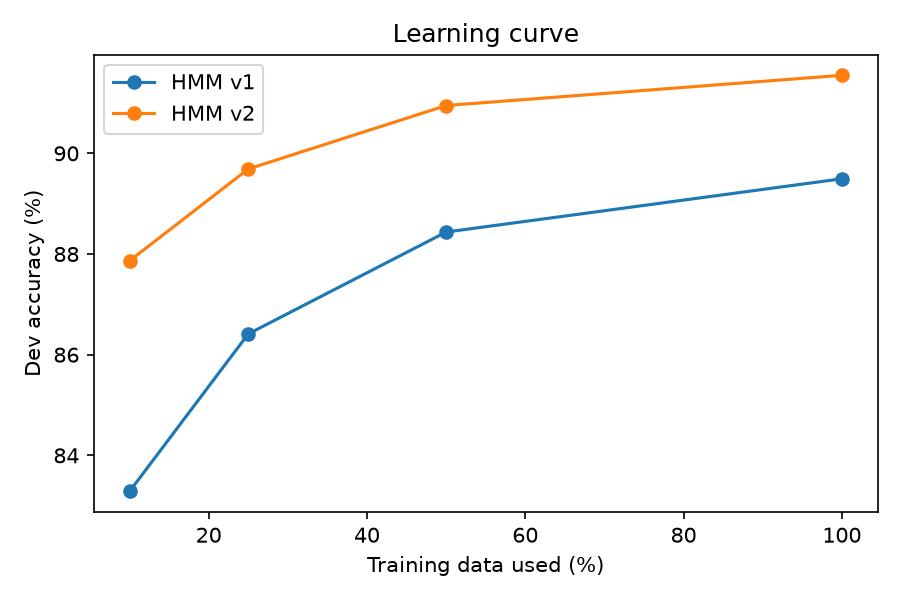
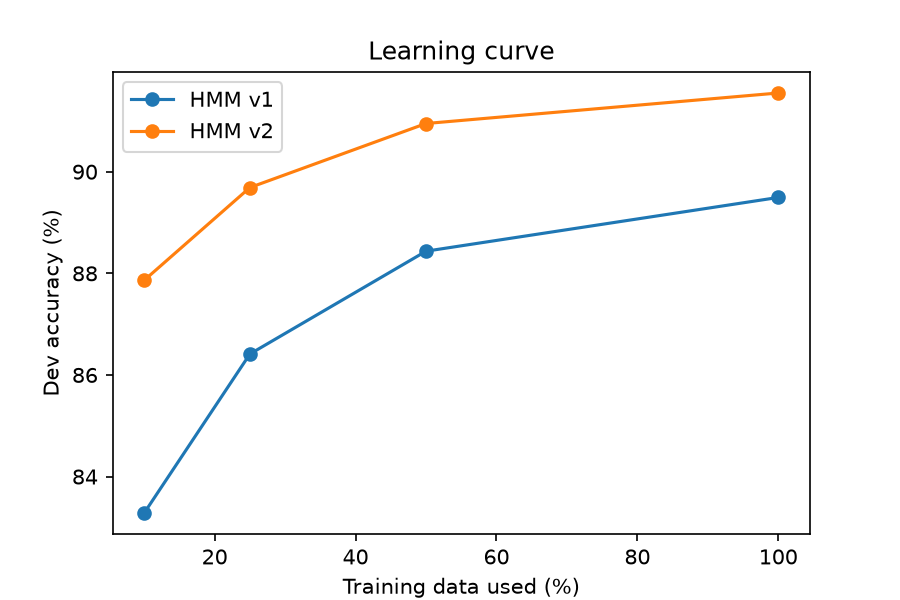
feat: save ablation results and summary figure

Changed region(s): [[0.0311, 0.03, 0.9956, 0.66], [0.0622, 0.27, 0.9644, 0.99], [0.0622, 0.24, 0.1244, 0.3]]

diff --git a/experiments/ablations.py b/experiments/ablations.py
@@ -130,3 +130,21 @@ lo, hi = np.percentile(diff, [2.5, 97.5])
 results["bootstrap_v2_minus_v1"] = {"mean_diff": float(diff.mean()), "ci95_low": float(lo), "ci95_high": float(hi),
                                     "excludes_zero": bool(lo > 0 or hi < 0)}
 print(results["bootstrap_v2_minus_v1"])
+
+# ---------- 6. Summary figure and saved results ----------
+labels = ["Most-frequent\ntag", "v1\ngreedy", "v1\nViterbi", "v2\ngreedy", "v2\nViterbi"]
+g = results["greedy_vs_viterbi"]
+values = [results["mft_baseline"]["test"]["accuracy"], g["v1"]["greedy_test"]["accuracy"],
+          g["v1"]["viterbi_test"]["accuracy"], g["v2"]["greedy_test"]["accuracy"], g["v2"]["viterbi_test"]["accuracy"]]
+plt.figure(figsize=(7, 4))
+plt.bar(labels, [v * 100 for v in values], color=["#bbbbbb", "#9bb7d4", "#5b88b8", "#6aa88f", "#1f6f54"])
+plt.ylim(min(values) * 100 - 5, 100)
+plt.ylabel("Test accuracy (%)")
+plt.title("Baselines and decoding methods")
+plt.tight_layout()
+plt.savefig("figures/ablation_summary.png", dpi=150)
+plt.close()
+
+with open("results/ablations.json", "w") as f:
+    json.dump(results, f, indent=2)
+print("Saved results/ablations.json and the two figures")
